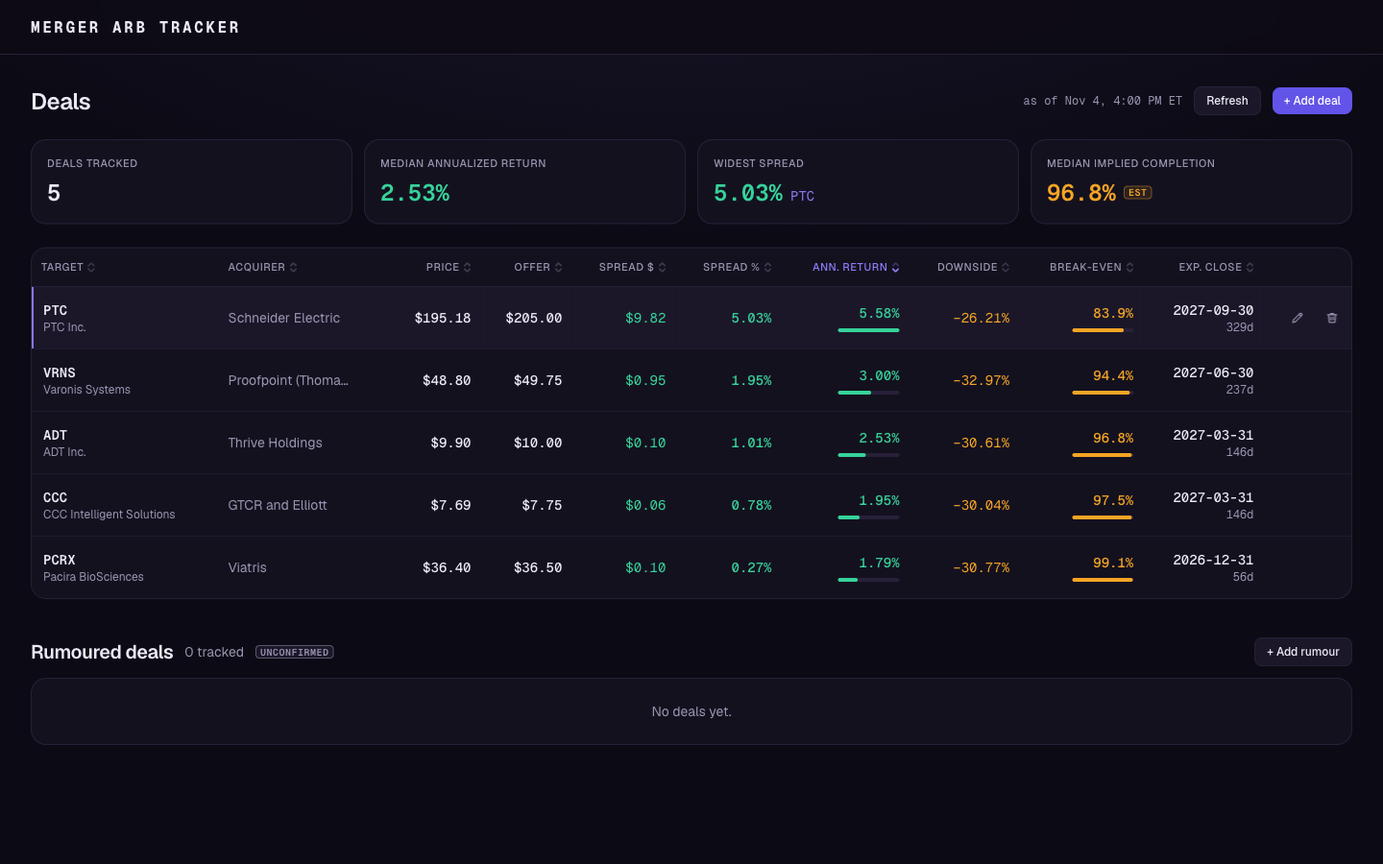
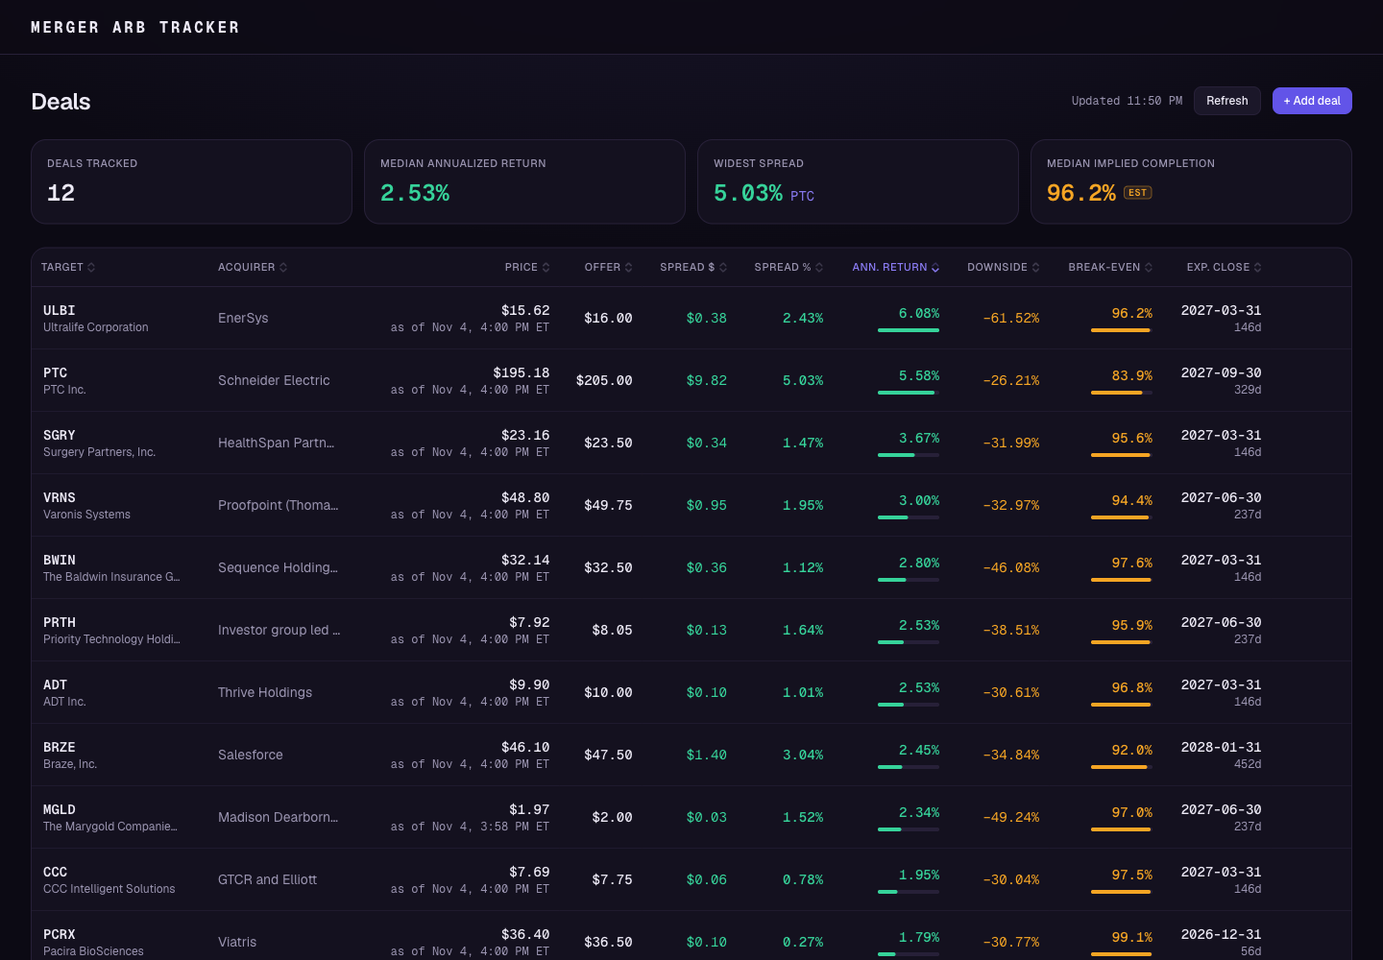
Auto-remove closed deals, add 7 new all-cash deals, document the update procedure
- findClosed: removed only if ticker missing from quotes AND history has no data,
  with an outage guard; hook plus dismissible notice
- Seed deals 5 -> 12 (PAG, SGRY, ULBI, BWIN, MGLD, PRTH, BRZE), SEED_VERSION 4
- CLAUDE.md: procedure for finding and checking new deals; README updates

diff --git a/lib/closedDeals.test.ts b/lib/closedDeals.test.ts
@@ -1,0 +1,78 @@
+import { describe, expect, it } from "vitest";
+import { findClosed, historyCheckFromStatus, type HistoryCheck } from "./closedDeals";
+import type { Deal } from "./types";
+
+const deal = (ticker: string): Deal => ({
+  id: ticker.toLowerCase(),
+  targetName: `${ticker} Inc`,
+  targetTicker: ticker,
+  acquirerName: "Buyer",
+  offerPrice: 50,
+  announceDate: "2026-10-01",
+  expectedCloseDate: "2027-03-31",
+});
+
+const gone: HistoryCheck = "no-data";
+const ids = (deals: Deal[]) => deals.map((d) => d.id);
+
+describe("historyCheckFromStatus", () => {
+  it("treats only 200 as data and only 404 as no data; everything else says nothing", () => {
+    expect(historyCheckFromStatus(200)).toBe("has-data");
+    expect(historyCheckFromStatus(404)).toBe("no-data");
+    for (const s of [400, 429, 500, 502, 503, 0]) expect(historyCheckFromStatus(s), String(s)).toBe("unknown");
+  });
+});
+
+describe("findClosed", () => {
+  const deals = [deal("AAA"), deal("BBB"), deal("CCC")];
+
+  it("removes a deal whose ticker is missing from quotes and has no price history", () => {
+    expect(ids(findClosed(deals, ["BBB"], { BBB: gone }))).toEqual(["bbb"]);
+  });
+
+  it("keeps it if Yahoo still has history for the ticker (the missing quote may be a blip)", () => {
+    expect(findClosed(deals, ["BBB"], { BBB: "has-data" })).toEqual([]);
+  });
+
+  it("keeps it if the history check failed or never ran", () => {
+    expect(findClosed(deals, ["BBB"], { BBB: "unknown" })).toEqual([]);
+    expect(findClosed(deals, ["BBB"], {})).toEqual([]);
+  });
+
+  it("keeps a deal with no history if its quote is present", () => {
+    expect(findClosed(deals, [], { AAA: gone, BBB: gone, CCC: gone })).toEqual([]);
+    expect(findClosed(deals, ["AAA"], { AAA: gone, BBB: gone })).toEqual([deals[0]]);
+  });
+
+  it("removes several closed deals at once", () => {
+    expect(ids(findClosed(deals, ["AAA", "CCC"], { AAA: gone, CCC: gone }))).toEqual(["aaa", "ccc"]);
+  });
+
+  it("removes nothing when every tracked ticker is missing and there are three or more: that's an outage", () => {
+    expect(findClosed(deals, ["AAA", "BBB", "CCC"], { AAA: gone, BBB: gone, CCC: gone })).toEqual([]);
+  });
+
+  it("still removes when all of just one or two tracked tickers are missing", () => {
+    expect(ids(findClosed([deal("AAA")], ["AAA"], { AAA: gone }))).toEqual(["aaa"]);
+    expect(ids(findClosed([deal("AAA"), deal("BBB")], ["AAA", "BBB"], { AAA: gone, BBB: gone }))).toEqual(["aaa", "bbb"]);
+  });
+
+  it("does not trip the outage guard when at least one tracked ticker is fine", () => {
+    expect(ids(findClosed(deals, ["AAA", "BBB"], { AAA: gone, BBB: gone }))).toEqual(["aaa", "bbb"]);
+  });
+
+  it("counts a ticker once for the guard even if two deals share it", () => {
+    const dup = [deal("AAA"), { ...deal("AAA"), id: "aaa-2" }, deal("BBB")];
+    // Two distinct tickers, both missing: fewer than three, so the guard doesn't apply.
+    expect(ids(findClosed(dup, ["AAA", "BBB"], { AAA: gone, BBB: gone }))).toEqual(["aaa", "aaa-2", "bbb"]);
+  });
+
+  it("matches tickers in any letter case", () => {
+    expect(ids(findClosed([deal("abc")], ["ABC"], { ABC: gone }))).toEqual(["abc"]);
+  });
+
+  it("handles empty inputs", () => {
+    expect(findClosed([], [], {})).toEqual([]);
+    expect(findClosed(deals, [], {})).toEqual([]);
+  });
+});

diff --git a/lib/useClosedDeals.ts b/lib/useClosedDeals.ts
@@ -1,0 +1,62 @@
+// Removes deals whose target has been delisted (the deal has most likely closed).
+// Runs after each successful price refresh that reports missing tickers; the rule itself, with
+// its safeguards, is findClosed() in lib/closedDeals.ts.
+import { useCallback, useEffect, useRef, useState } from "react";
+import { findClosed, historyCheckFromStatus, type HistoryCheck } from "./closedDeals";
+import { deleteDeal } from "./deals";
+import type { Deal } from "./types";
+
+/**
+ * `missing` is the tickers Yahoo no longer lists, from a successful quotes response only.
+ * `refreshedAt` identifies that response, so each one is checked once.
+ */
+export function useClosedDeals(deals: Deal[] | null, missing: string[], refreshedAt: Date | null) {
+  const [removed, setRemoved] = useState<Deal[]>([]);
+  const checked = useRef(new Set<string>());
+  const missingKey = missing.join(",");
+
+  useEffect(() => {
+    if (!deals || missing.length === 0 || !refreshedAt) return;
+    const seen = checked.current;
+    const batch = `${refreshedAt.getTime()}|${missingKey}`;
+    if (seen.has(batch)) return;
+    seen.add(batch);
+
+    // Earliest announcement date per missing ticker: the history is asked for from then on.
+    const missingSet = new Set(missing.map((s) => s.toUpperCase()));
+    const from = new Map<string, string>();
+    for (const d of deals) {
+      const t = d.targetTicker.toUpperCase();
+      if (missingSet.has(t) && (!from.has(t) || d.announceDate < from.get(t)!)) from.set(t, d.announceDate);
+    }
+
+    let cancelled = false;
+    (async () => {
+      const history: Record<string, HistoryCheck> = {};
+      await Promise.all(
+        [...from].map(async ([ticker, date]) => {
+          try {
+            const res = await fetch(`/api/history?symbol=${encodeURIComponent(ticker)}&from=${date}`);
+            history[ticker] = historyCheckFromStatus(res.status);
+          } catch {
+            history[ticker] = "unknown";
+          }
+        }),
+      );
+      if (cancelled) return;
+      const closed = findClosed(deals, missing, history);
+      if (closed.length === 0) return;
+      for (const d of closed) deleteDeal(d.id);
+      setRemoved((prev) => [...prev, ...closed]);
+    })();
+    return () => {
+      cancelled = true;
+      seen.delete(batch); // not finished: allow a retry if the effect re-runs
+    };
+    // `deals` is deliberately not a dependency: removing a deal changes it, and this batch is done.
+    // eslint-disable-next-line react-hooks/exhaustive-deps
+  }, [missingKey, refreshedAt]);
+
+  const dismiss = useCallback(() => setRemoved([]), []);
+  return { removed, dismiss };
+}

diff --git a/lib/useMarketData.ts b/lib/useMarketData.ts
@@ -6,7 +6,14 @@ import { unaffectedPrice, type PricePoint } from "./calc";
 import type { Deal, Quote } from "./types";
 
 // `at` is the time of the last successful fetch.
-type QuoteResult = { key: string; quotes: Record<string, Quote>; error: string | null; at: Date | null };
+// `missing` = tickers Yahoo no longer lists, from a successful response only (empty after an error).
+type QuoteResult = {
+  key: string;
+  quotes: Record<string, Quote>;
+  missing: string[];
+  error: string | null;
+  at: Date | null;
+};
 
 function shiftDate(date: string, days: number): string {
   const t = Date.parse(`${date}T00:00:00Z`) + days * 86_400_000;
@@ -72,12 +79,12 @@ export function useMarketData(deals: Deal[] | null, extraTickers: string[] = [])
       .then(async (res) => {
         const body = await res.json();
         if (!res.ok) throw new Error(body.error ?? "Price data unavailable");
-        return body.quotes as Quote[];
+        return { list: body.quotes as Quote[], missing: (body.missing ?? []) as string[] };
       })
-      .then((list) => {
+      .then(({ list, missing }) => {
         if (cancelled) return;
         const quotes = Object.fromEntries(list.map((q) => [q.symbol, q]));
-        setQuoteResult({ key: requestKey, quotes, error: null, at: new Date() });
+        setQuoteResult({ key: requestKey, quotes, missing, error: null, at: new Date() });
       })
       .catch((err: Error) => {
         if (cancelled) return;
@@ -85,6 +92,7 @@ export function useMarketData(deals: Deal[] | null, extraTickers: string[] = [])
         setQuoteResult((prev) => ({
           key: requestKey,
           quotes: prev?.quotes ?? {},
+          missing: [],
           error: err.message,
           at: prev?.at ?? null,
         }));
@@ -115,6 +123,7 @@ export function useMarketData(deals: Deal[] | null, extraTickers: string[] = [])
   const current = quoteResult?.key === requestKey ? quoteResult : null;
   return {
     quotes: quoteResult?.quotes ?? {},
+    missing: current && !current.error ? current.missing : [],
     unaffected,
     loading: symbols !== "" && current === null,
     error: current?.error ?? null,

diff --git a/app/page.tsx b/app/page.tsx
@@ -13,6 +13,7 @@ import { buildRow, buildRumourRow, sharedPriceNote, summarize } from "@/lib/deal
 import { deleteDeal, resetDeals, saveDeal, useDeals } from "@/lib/deals";
 import { deleteRumour, saveRumour, useRumours } from "@/lib/rumours";
 import type { Deal, Rumour } from "@/lib/types";
+import { useClosedDeals } from "@/lib/useClosedDeals";
 import { useMarketData } from "@/lib/useMarketData";
 import { useRumourScan } from "@/lib/useRumourScan";
 
@@ -36,6 +37,7 @@ export default function Dashboard() {
   const rumourTickers = useMemo(() => (rumours ?? []).map((r) => r.targetTicker), [rumours]);
   const market = useMarketData(deals, rumourTickers);
   const announcedTickers = useMemo(() => (deals ?? []).map((d) => d.targetTicker), [deals]);
+  const closedDeals = useClosedDeals(deals, market.missing, market.lastUpdated);
   const rumourScan = useRumourScan(deals !== null && rumours !== null, announcedTickers);
   const [editing, setEditing] = useState<Deal | "new" | null>(null);
   const [editingRumour, setEditingRumour] = useState<Rumour | "new" | null>(null);
@@ -92,6 +94,22 @@ export default function Dashboard() {
           </button>
         </div>
       </div>
+
+      {closedDeals.removed.length > 0 && (
+        <div className="flex items-start justify-between gap-3 rounded-xl border border-border bg-panel px-3 py-2 text-sm">
+          <ul className="space-y-0.5">
+            {closedDeals.removed.map((d) => (
+              <li key={d.id}>
+                <span className="font-mono font-semibold">{d.targetTicker}</span> is no longer listed (the deal has likely
+                closed), so it was removed.
+              </li>
+            ))}
+          </ul>
+          <button onClick={closedDeals.dismiss} className="shrink-0 text-muted transition-colors hover:text-text">
+            Dismiss
+          </button>
+        </div>
+      )}
 
       {summary && summary.dealCount > 0 && <SummaryStrip summary={summary} />}
 

diff --git a/lib/closedDeals.ts b/lib/closedDeals.ts
@@ -1,0 +1,32 @@
+// Spotting deals that have closed. When an acquisition completes the target is delisted, and
+// Yahoo stops listing it: /api/quotes reports it as `missing` and /api/history returns 404.
+// Pure functions, no I/O; the hook (lib/useClosedDeals.ts) does the fetching.
+import type { Deal } from "./types";
+
+/** What /api/history said about a ticker. Only a real "no data" answer counts, never an error. */
+export type HistoryCheck = "has-data" | "no-data" | "unknown";
+
+export function historyCheckFromStatus(status: number): HistoryCheck {
+  if (status === 200) return "has-data";
+  if (status === 404) return "no-data"; // the route's answer when Yahoo has no price data
+  return "unknown"; // 400s, 502s and the like say nothing about the ticker
+}
+
+/**
+ * The deals that have closed. A deal counts only if BOTH hold:
+ *  1. its ticker is in `missing` from a successful quotes response, and
+ *  2. the history check for it found no price data.
+ * Two separate signals, because `missing` also lists symbols that just lack a price right now.
+ * An unchecked or unknown history never removes a deal, and if three or more tickers are tracked
+ * and every one is missing, that looks like a Yahoo problem rather than closings, so none are removed.
+ */
+export function findClosed(deals: Deal[], missing: string[], history: Record<string, HistoryCheck>): Deal[] {
+  const missingSet = new Set(missing.map((s) => s.toUpperCase()));
+  const tracked = [...new Set(deals.map((d) => d.targetTicker.toUpperCase()))];
+  if (tracked.length >= 3 && tracked.every((t) => missingSet.has(t))) return [];
+
+  return deals.filter((d) => {
+    const t = d.targetTicker.toUpperCase();
+    return missingSet.has(t) && history[t] === "no-data";
+  });
+}

diff --git a/lib/deals.ts b/lib/deals.ts
@@ -11,7 +11,7 @@ const STORAGE_KEY = "merger-arb-deals-v2";
 const LEGACY_STORAGE_KEY = "merger-arb-deals-v1"; // plain array, before seed versions
 
 /** Bump when data/seed-deals.json changes, so returning visitors pick the changes up. */
-export const SEED_VERSION = 3;
+export const SEED_VERSION = 4;
 
 /**
  * Ids of seeded deals that were later removed from data/seed-deals.json. Browsers that saved

diff --git a/CLAUDE.md b/CLAUDE.md
@@ -31,6 +31,8 @@ data/seed-rumours.json     Shared rumours added by Claude after reading sources 
 lib/sources.ts             publisherFor(url): known outlets get a short name, other news sites their own domain, social media/forums are rejected; isKnownPublisher()
 lib/dealRow.ts             buildRow(): deal + market data → price, break price, metrics (table + detail); buildRumourRow(); summarize() headline numbers (announced deals only)
 lib/format.ts              Display formatting (usd, pct, sign colors, as-of time)
+lib/closedDeals.ts         findClosed(): a deal is closed only if its ticker is missing from quotes AND /api/history has no data (outage guard: all of 3+ missing → none) + tests
+lib/useClosedDeals.ts      Client hook: after a good price refresh, removes closed deals via deleteDeal() and shows a dismissible notice
 lib/useMarketData.ts       Client hook: live quotes (deals + extra tickers such as rumours) and unaffected prices for deals, refresh()
 components/                DealTable (table at 1280px+, cards below), DealDetail, PayoffLadder (break → price → offer bar), DealForm, RumourTable, RumourForm, SpreadChart, SummaryStrip, Badge (EST / INDICATIVE / UNCONFIRMED), StatusBar (bottom bar), ui.tsx (cardClass/buttonClass helpers, Segmented pill tabs)
 data/seed-deals.json       Real deals seeded on first visit. When you change this file, bump SEED_VERSION in lib/deals.ts so returning visitors get the changes (user-added deals are kept). When you delete a seed deal, also add its id to REMOVED_SEED_IDS there. Terms come from SEC 8-K exhibits; expected close = end of the company-guided window.
@@ -62,6 +64,19 @@ Rules:
 - Auto-found rumours (headline scan, owner's choice to add them automatically): always the **AUTO-FOUND** badge, the headline, blank terms, and a 30-day expiry unless the user edits them. Never read terms out of a headline. Deleting any rumour dismisses its ticker for 30 days (then a new story can show); the scan route is dynamic (`connection()`), never prerendered, so build-time headlines aren't baked into a deploy.
 - Finding rumours on request ("find new rumours"): search any source (web search, press digests, filings), not just Yahoo. For each candidate: (1) confirm it hasn't become an announced deal and isn't already in `data/seed-deals.json`; (2) read the article or a filing; if it's paywalled or blocked, don't use it as the basis for terms and don't try to get around the block; (3) add to `data/seed-rumours.json` with id `shared-TICKER`, the *original* report date, and a link to the best source; (4) fill acquirer, per-share price and closing date only if the text states them (a range or a total dollar value is not a per-share price: leave blank); (5) check the ticker is a USD equity (`/api/quotes`); (6) skip anything older than about 30 days, rejected, or dead; (7) run `npm test` (it validates this file). Say plainly which sources couldn't be read. Don't commit until the owner says so.
 
+## Updating the deals (adding new, removing closed)
+Closed deals are removed **automatically in the app** (`lib/closedDeals.ts`, see above). New deals are added by **a person-reviewed update to `data/seed-deals.json`**: either "update the deals" in a session, or the weekly scheduled routine, which opens a pull request and never pushes to `main`. A pattern matcher must not add deals: filings name buyers and targets alike, and these numbers drive every figure.
+For each candidate:
+1. **Find:** SEC full-text search of 8-Ks from the last 14 days (`https://efts.sec.gov/LATEST/search-index?q="per share in cash"&forms=8-K&dateRange=custom&startdt=…&enddt=…`, use `curl` with a generic User-Agent such as `merger-arb-tracker-research`, never an email address), plus news search. The search returns ~50 filings per fortnight and most are not take-outs (earnings, buyers, funds), so every candidate must be read. Hits list each exhibit by `_id` (`adsh:filename`); build the URL as `https://www.sec.gov/Archives/edgar/data/<cik>/<adsh-no-dashes>/<filename>`.
+2. **Read** the actual press release (EX-99.1) and 8-K on sec.gov. `curl` is blocked on `sec.gov/Archives` ("Undeclared Automated Tool", an identical ~4,000-character page): read those pages through the web-fetch tool/agent instead, a batch of ~10 URLs per agent, asking only for verbatim facts. If a page can't be read (paywall, 403), don't take terms from it, and say so. Don't work around a block. The 8-K body often lacks the closing window; look for the EX-99.1 or EX-99.2 press release before skipping.
+3. **Qualify, all must hold:** the target is a US-listed, USD-priced stock; a **definitive** agreement is signed (not a proposal or talks); consideration is **all cash** (no stock, election or CVR); a per-share price is stated; the filing states an expected closing window.
+4. **Fill in:** `offerPrice` as stated; `announceDate`; `expectedCloseDate` = end of the company-guided window; `unaffectedDate` only if the filing says news leaked earlier; `sourceUrl` = the filing. Every field must trace to a sentence in the source.
+5. **Skip and list with the reason:** stock, mixed or CVR deals, proposals only, no closing window, foreign listings, asset purchases, deals already completed, the filer being the acquirer, anything unreadable, **and amended or re-priced deals or ones with only a VWAP premium and no undisturbed price** (the default break price would be misleading; the owner already dropped MISTRAS for this). A fiscal-year closing window ("fiscal year 2028") needs the company's year-end: use it only if certain, and flag it as derived.
+5b. **Check against the price history** (`/api/history`) before adding: the jump to the offer should fall on the announcement date, and the stated premium should equal offer ÷ the close on the stated "unaffected" date. If the jump comes a day after the release (released after the close), set `unaffectedDate` to the date the filing names. Check `/api/quotes` has the ticker.
+6. **Remove closed deals from the file:** delete from `seed-deals.json` and add the id to `REMOVED_SEED_IDS` in `lib/deals.ts` (closing confirmed by Yahoo delisting and the Item 2.01 8-K).
+7. Bump `SEED_VERSION`, then run `npm test` (validates the seed file), `npm run lint` and `npm run build`.
+In a pull request, include a table of added deals (price, close, unaffected date, source links), the deals removed, and the skipped candidates with reasons. Don't commit to `main` unless the owner says so.
+
 ## Conventions
 - Keep it simple: no new dependencies, abstractions, state libraries, or features beyond the plan without asking first. Deferred: dividends, offer bumps, import/export, closed-deal case studies.
 - Small, focused components. Plain `fetch` and `useState`/`useEffect`; no data-fetching libraries.
@@ -83,4 +98,5 @@ Rules:
 - R4 is committed and pushed. R5 (QA and docs) is done: layout checked at 1440/1024/768/390px with no horizontal overflow, keyboard focus ring and reduced-motion verified, README screenshots retaken (dev badge and fixed bar hidden), README text updated. The redesign is complete.
 - Rumoured deals are complete (plans in `~/.claude/plans/`): model and store, dashboard section and form, any-news-site sources, the headline scan with AUTO-FOUND rows (dismiss, 30-day expiry, Scan button), and the shared `data/seed-rumours.json` that Claude fills on request from any source. First shared entries (WEN, XPOF, LION) added 2026-11-05. Known gaps: headlines naming two companies are skipped by the scan; paywalled pages can't be read.
 - Text trim (owner's request): removed the ticker monogram tiles (PT, VR), the detail page's "The trade in one paragraph" section, the summary strip subtitles, per-row "as of" times (shown once in the header when shared), and the rumours intro paragraph. Don't re-add them.
+- Keeping deals current (plan in `~/.claude/plans/`): closed-deal auto-removal is built (`lib/closedDeals.ts`, `lib/useClosedDeals.ts`, two-signal rule plus outage guard, dismissible notice); the update procedure is written above. First catch-up run done 2026-11-05: 7 deals added (PAG, SGRY, ULBI, BWIN, MGLD, PRTH, BRZE), `SEED_VERSION` 4. Skipped with reasons: BMBL (no closing window), SYNA (amended, no undisturbed price), VREX (no closing window), MG (no undisturbed price), LFCR and SSTI (CVR), RXO (stock), SSRM (foreign/spin-co), CRGY (asset purchase), GBTG/SLP/WEAV (already completed). Weekly routine via the schedule skill: not created yet, needs the owner's confirmation.
 - Fixed: Yahoo returns an empty close for today's daily bar after hours, so the detail page appends the latest quote (`withLatestQuote` in `lib/calc.ts`) and the chart ends on the same day as the headline numbers.

diff --git a/README.md b/README.md
@@ -12,7 +12,8 @@ A dashboard for tracking announced **all-cash M&A deals** the way an event-drive
 - **Deal management.** Add, edit, and delete deals. Typing a ticker checks it against market data, fills in the company name, and suggests a break price.
 - **Deal analysis.** A detail page per deal with the metrics above, an editable break price that recalculates live, and a plain-English summary of the trade.
 - **Spread history.** A chart of how each deal's spread has moved since announcement, with a table of the underlying data.
-- **Real deals only.** Five real pending deals (terms from SEC 8-K filings, each with a source link). Everything the tracker shows is a real deal.
+- **Real deals only.** Twelve real pending all-cash deals (terms from SEC filings, each with a source link). Everything the tracker shows is a real deal.
+- **Stays current.** Closed deals are removed automatically; new deals are added by a reviewed update (see [Keeping the deals current](#keeping-the-deals-current)).
 - **Rumoured deals.** A separate section for deals reported by the press but not yet announced, each linked to the original report. Spreads from reported prices are marked as indicative. See [Rumoured deals](#rumoured-deals).
 
 ![Deal detail](docs/screenshots/deal-detail.png)
@@ -71,8 +72,21 @@ Companies guide closing as a window ("Q1 2027"). The seeded deals use the **end*
 | ADT (ADT) | Thrive Holdings | $10.00 | Oct 29, 2026 |
 | CCC Intelligent Solutions (CCC) | GTCR and Elliott | $7.75 | Oct 15, 2026 |
 | Pacira BioSciences (PCRX) | Viatris | $36.50 | Oct 8, 2026 |
+| Penske Automotive Group (PAG) | Penske Corporation and Mitsui & Co. | $212.00 | Oct 15, 2026 |
+| Surgery Partners (SGRY) | HealthSpan Partners | $23.50 | Oct 26, 2026 |
+| Ultralife (ULBI) | EnerSys | $16.00 | Oct 27, 2026 |
+| Baldwin Insurance Group (BWIN) | Sequence Holdings and DFO Management | $32.50 | Sep 14, 2026 |
+| Marygold Companies (MGLD) | Madison Dearborn Partners | $2.00 | Sep 25, 2026 |
+| Priority Technology (PRTH) | Investor group led by Thomas Priore | $8.05 | Sep 21, 2026 |
+| Braze (BRZE) | Salesforce | $47.50 | Oct 20, 2026 |
 
-These are a snapshot, not a live deal feed. Deal terms change (offer increases, extended timelines) and nothing here updates them. Check the linked filing before relying on a number.
+Deal terms change (offer increases, extended timelines) and nothing here tracks those. Check the linked filing before relying on a number. Braze's closing date is the end of Salesforce's fiscal year 2028 (the release says "fiscal year 2028"; the date is derived from Salesforce's January year-end, not stated in the filing).
+
+### Keeping the deals current
+
+- **Closed deals are removed automatically.** When Yahoo no longer lists a deal's ticker *and* has no price history for it, the deal is dropped and a notice says so. Two checks must agree, and if every tracked ticker goes missing at once (a Yahoo outage), nothing is removed.
+- **New deals are added by a reviewed update, not automatically.** SEC filings name buyers and targets alike, and the price, closing window and undisturbed date drive every number, so each candidate is read in full and checked against the stock's price history before it is added. The routine opens a pull request for review; nothing goes live unmerged.
+- **What gets skipped**, and is listed with a reason: stock, mixed or CVR deals, proposals only, deals with no stated closing window, amended deals with no undisturbed price, foreign listings, and deals already completed.
 
 ## Rumoured deals
 
@@ -112,7 +126,8 @@ Even with a feed, pulling terms out of headlines would mean guessing: "$5bn deal
 - **Deal terms are manual.** There's no free API for them.
 - **All-cash deals only.** No stock or mixed consideration, and no contingent value rights.
 - **Yahoo Finance is unofficial.** It can change or rate-limit without notice. If a price fails to load, the app says so and keeps the last prices it had.
-- **Closed deals disappear.** Targets are delisted when a deal closes and lose their price history, so remove a deal once it closes.
+- **Closed deals disappear.** Targets are delisted when a deal closes and lose their price history. The app detects this and removes the deal on its own; it can only react once Yahoo has delisted the ticker.
+- **Dividends aren't modelled.** A target that keeps paying a dividend until closing can trade at or above the offer (Penske Automotive does), which shows as a negative spread.
 - **Deals are saved per browser.** They aren't shared across devices. "Reset to the starting deals" restores the seeded list.
 
 ## Getting started
